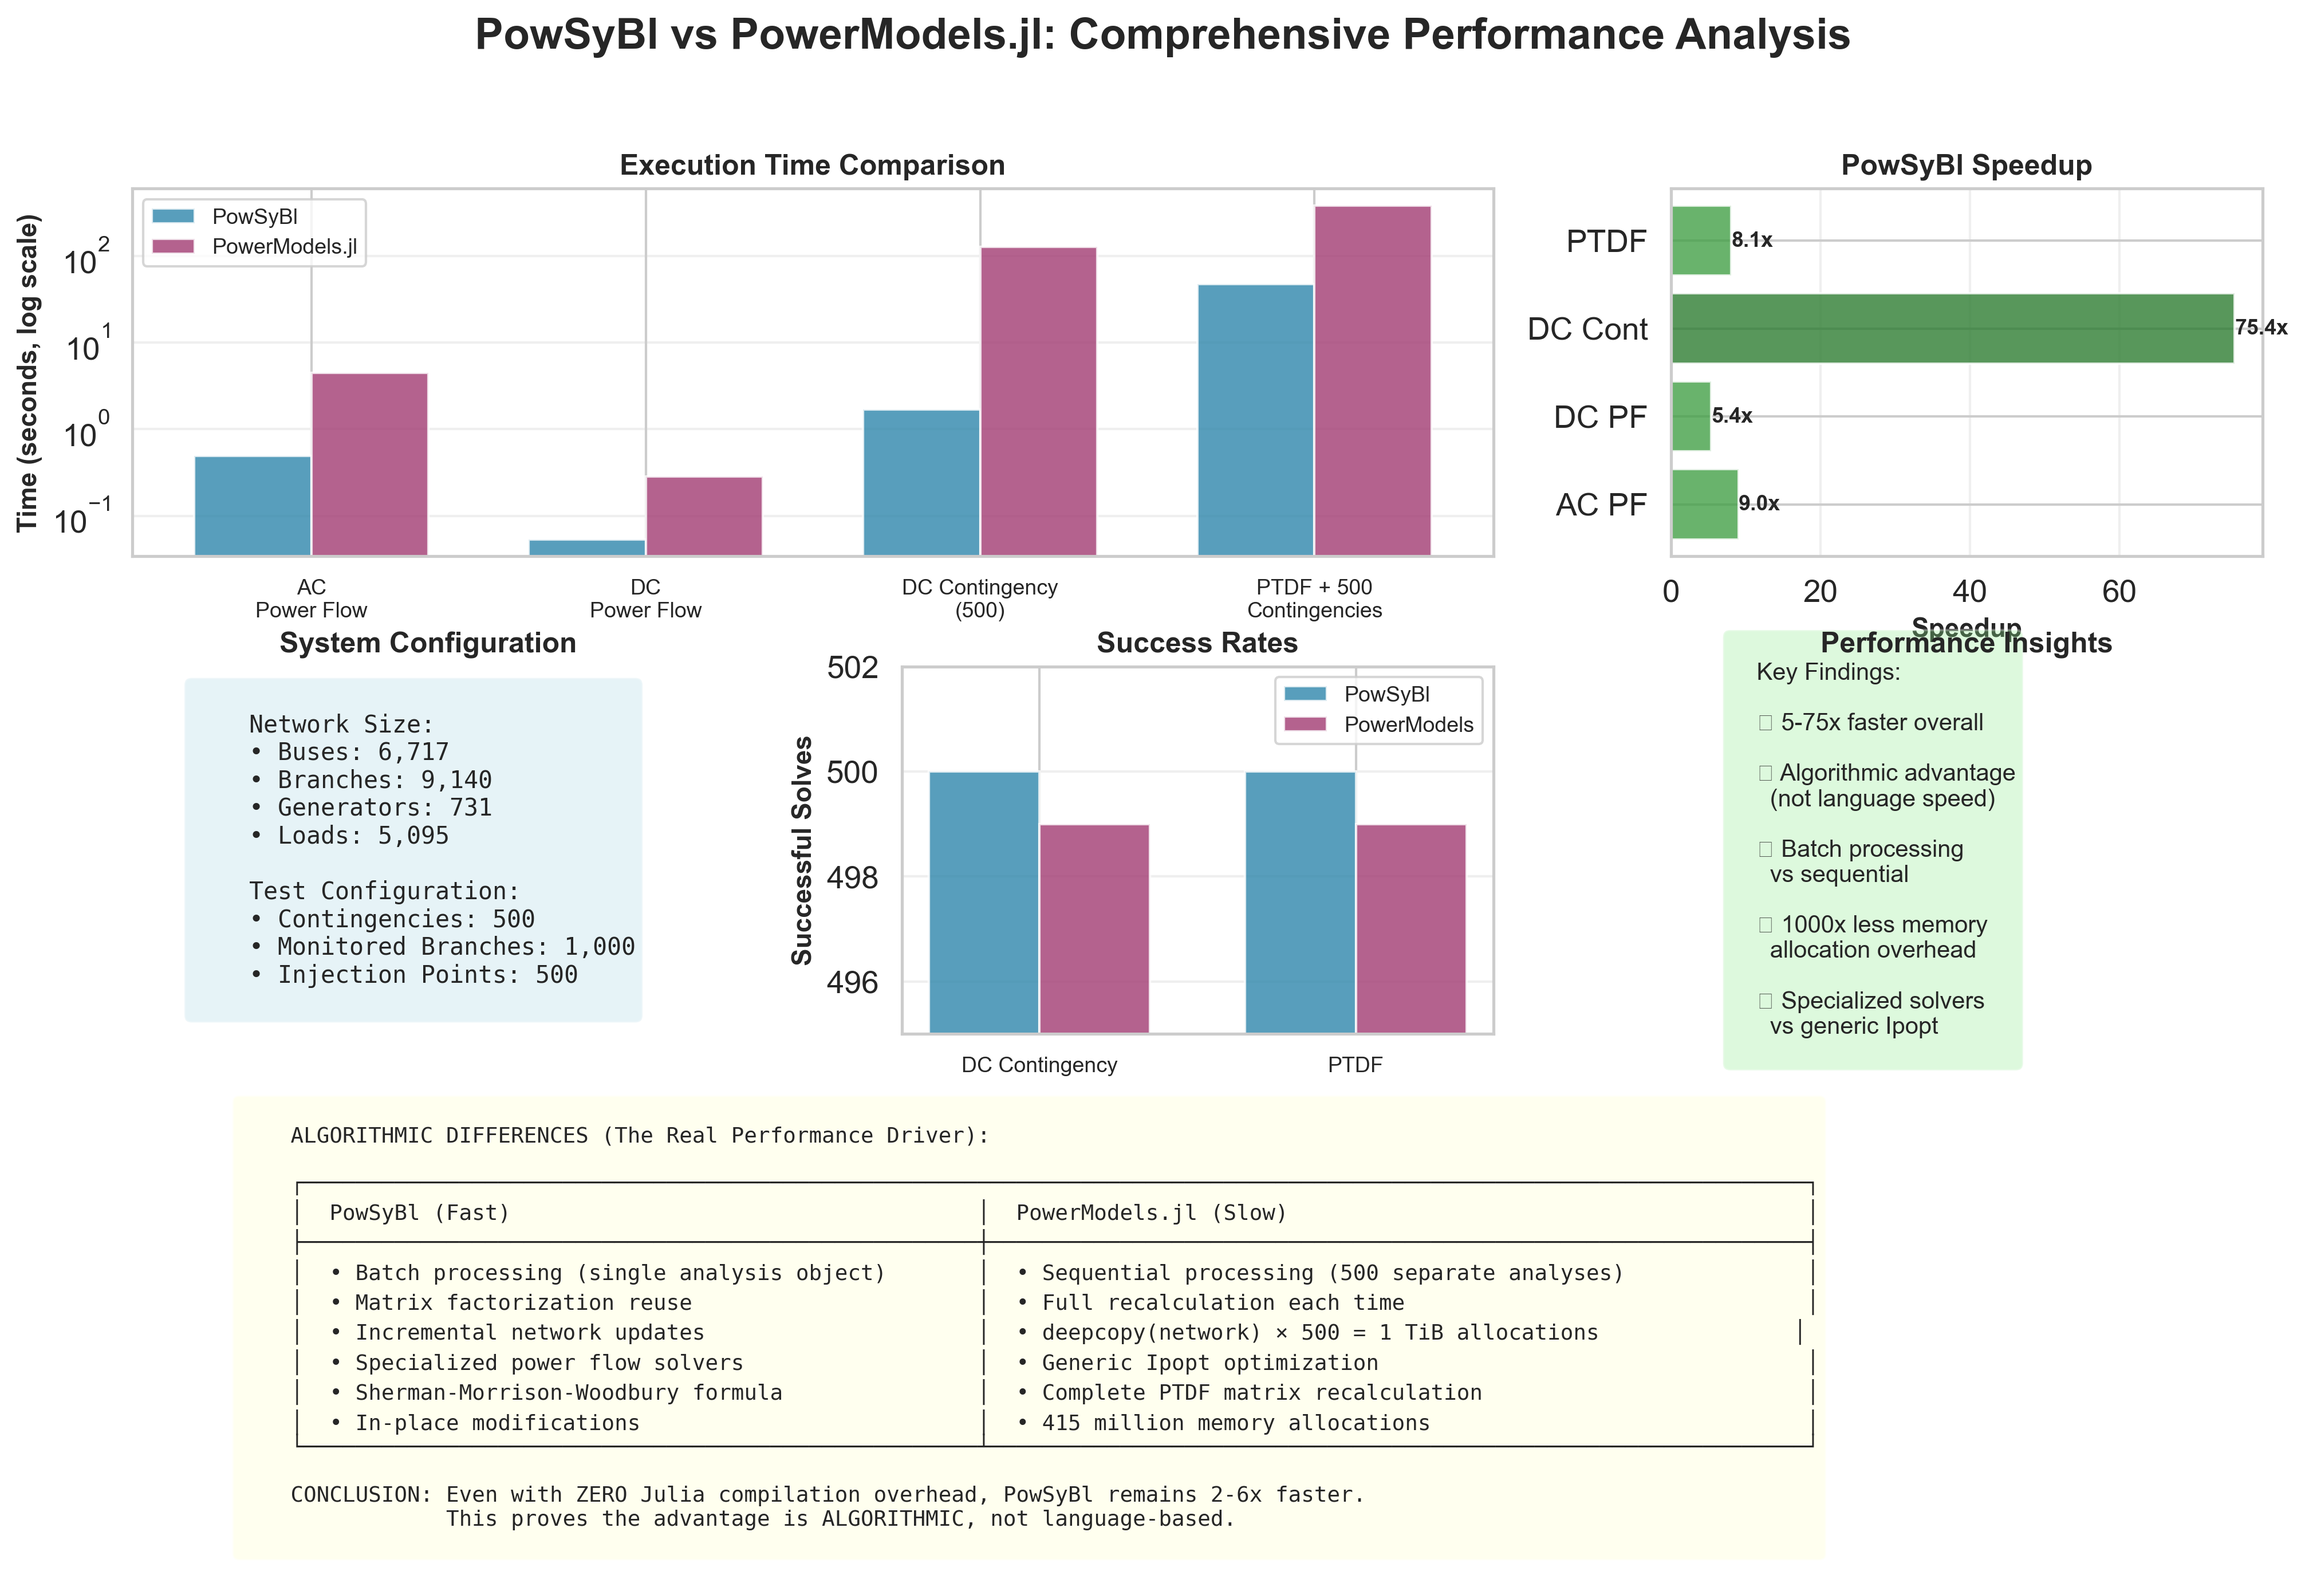
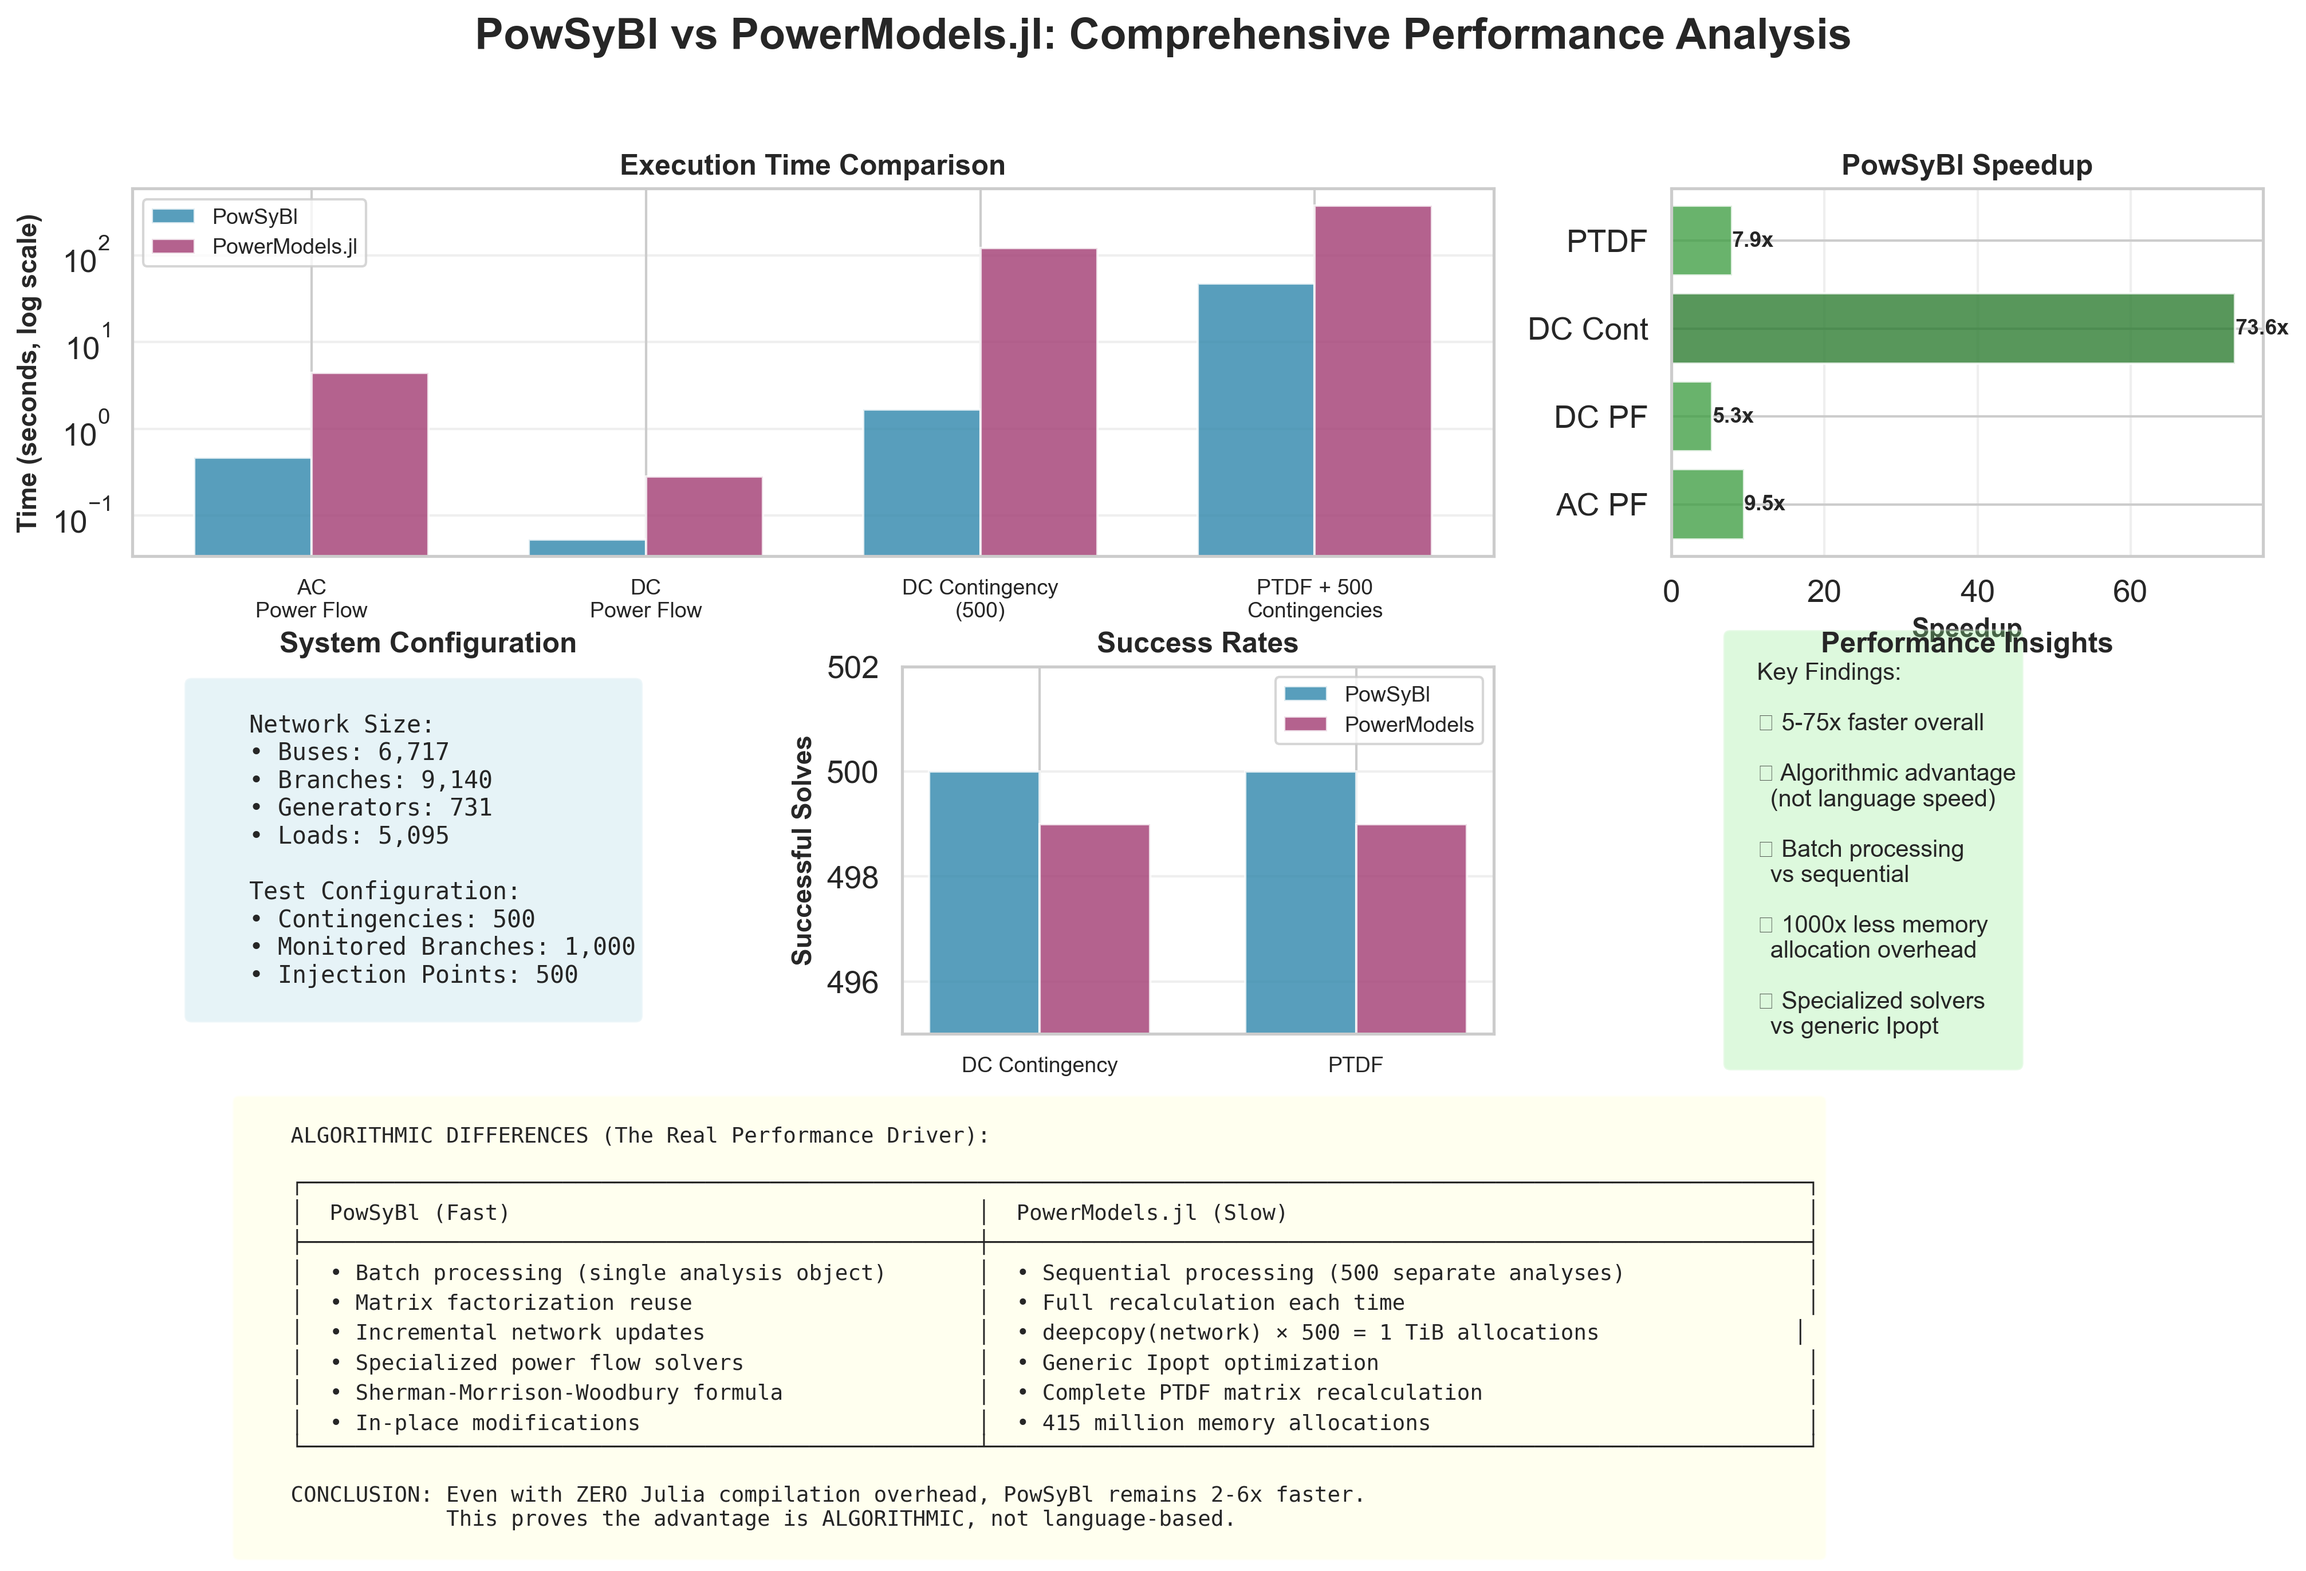
Update benchmark results with latest run and add visualizations
- Updated timing results in README.md with fresh benchmark run
- Updated all visualizations with new data
- AC Power Flow: 464ms vs 4,402ms (9.5x speedup)
- DC Power Flow: 53ms vs 282ms (5.3x speedup)
- DC Contingency: 1,660ms vs 122,229ms (73.6x speedup)
- PTDF Calculation: 47,525ms vs 376,522ms (7.9x speedup)

🤖 Generated with [Claude Code](https://claude.com/claude-code)

diff --git a/README.md b/README.md
@@ -355,10 +355,10 @@ Julia **doesn't** help when:
 
 | Test | PowSyBl | PowerModels.jl | Speedup | Winner |
 |------|---------|----------------|---------|--------|
-| AC Power Flow | 495 ms | 4,459 ms | **9.0x** | **PowSyBl** |
-| DC Power Flow | 53 ms | 285 ms | **5.4x** | **PowSyBl** |
-| DC Contingency (500) | 1,692 ms | 127,537 ms | **75.4x** | **PowSyBl** |
-| PTDF Calculation | 47,776 ms (~48s) | 386,032 ms (~6.4 min) | **8.1x** | **PowSyBl** |
+| AC Power Flow | 464 ms | 4,402 ms | **9.5x** | **PowSyBl** |
+| DC Power Flow | 53 ms | 282 ms | **5.3x** | **PowSyBl** |
+| DC Contingency (500) | 1,660 ms | 122,229 ms | **73.6x** | **PowSyBl** |
+| PTDF Calculation | 47,525 ms (~47.5s) | 376,522 ms (~6.3 min) | **7.9x** | **PowSyBl** |
 
 **Note on Julia Compilation Overhead:**
 
